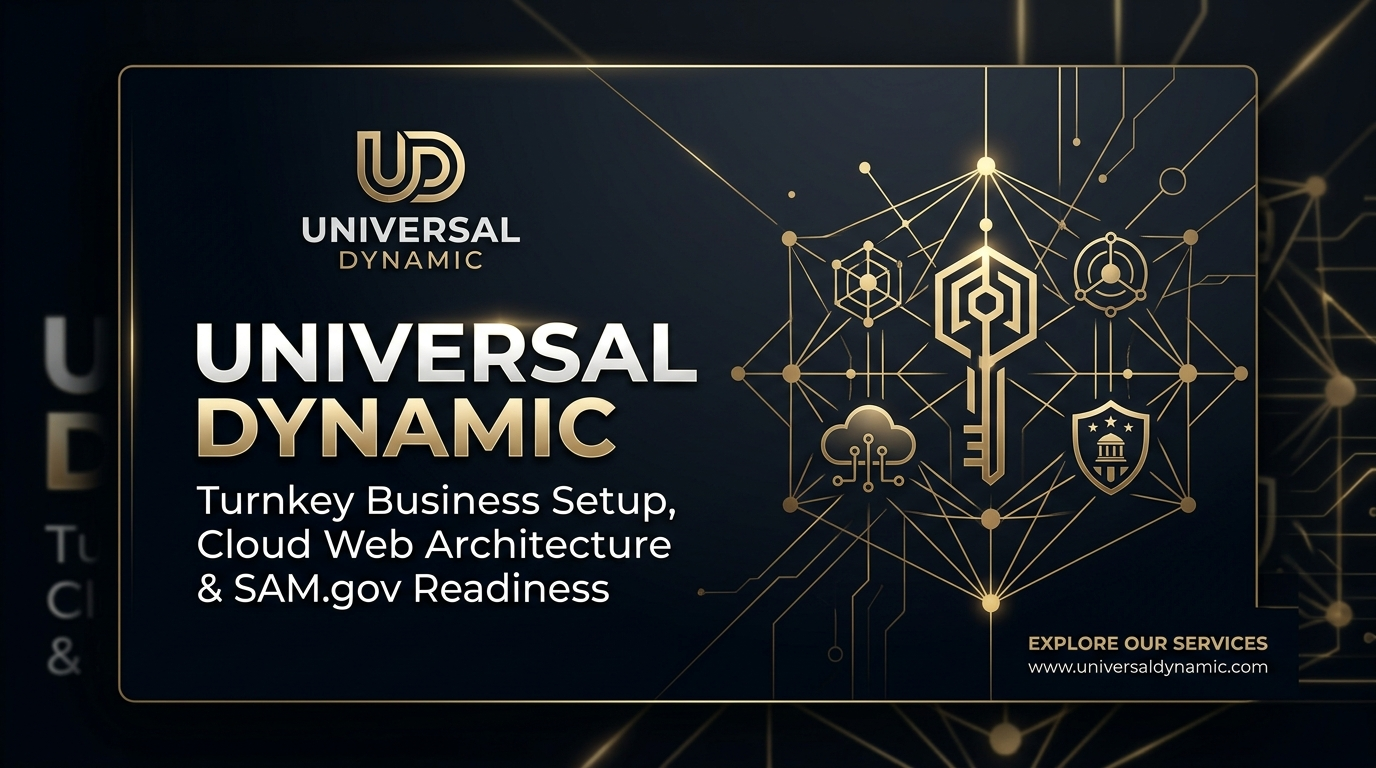
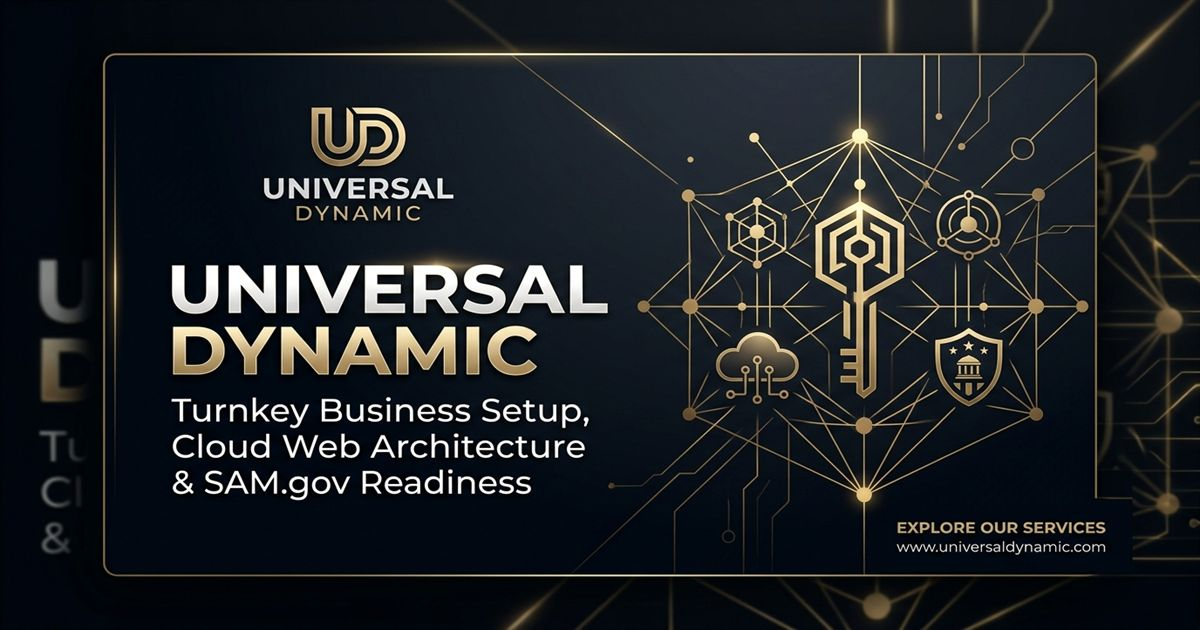
feat(step3): configure cleanUrls static routing, add 404 page, build-time sitemap, internal links, and 1200x630 og-image

diff --git a/src/pages/NotFoundPage.tsx b/src/pages/NotFoundPage.tsx
@@ -1,0 +1,62 @@
+import React from 'react';
+import { Head } from 'vite-react-ssg';
+import { Link } from 'react-router-dom';
+import { Hexagon, Home, Mail } from 'lucide-react';
+import { routeMeta } from '../seo';
+
+export const NotFoundPage: React.FC = () => {
+  const meta = routeMeta['/404'] || {
+    title: '404 - Page Not Found | Universal Dynamic Consulting Services LLC',
+    description: 'The requested page could not be found.',
+    canonical: 'https://universal-dynamic.com/404',
+    robots: 'noindex, nofollow',
+  };
+
+  return (
+    <main className="min-h-screen bg-charcoal-950 text-cream flex items-center justify-center pt-24 pb-16 px-6">
+      <Head>
+        <title>{meta.title}</title>
+        <meta name="description" content={meta.description} />
+        <meta name="robots" content="noindex, nofollow" />
+        <link rel="canonical" href={meta.canonical} />
+      </Head>
+
+      <div className="max-w-xl mx-auto text-center relative z-10">
+        <div className="relative inline-flex items-center justify-center mb-8">
+          <Hexagon className="w-24 h-24 text-gold/30" strokeWidth={1} />
+          <span className="absolute font-display font-bold text-3xl text-gold tracking-wider">404</span>
+        </div>
+
+        <span className="inline-block py-1.5 px-6 border border-gold/30 bg-navy/30 backdrop-blur-sm text-gold text-[10px] font-bold tracking-[0.3em] uppercase mb-6">
+          Error 404 // Route Undefined
+        </span>
+
+        <h1 className="font-display font-medium text-4xl sm:text-5xl text-white mb-6 leading-tight">
+          Page Not Found
+        </h1>
+
+        <p className="text-cream/70 text-base sm:text-lg font-light leading-relaxed mb-10 max-w-md mx-auto">
+          The resource you are looking for has either moved, been retired, or does not exist on this server.
+        </p>
+
+        <div className="flex flex-col sm:flex-row items-center justify-center gap-4">
+          <Link
+            to="/"
+            className="w-full sm:w-auto inline-flex items-center justify-center gap-3 px-8 py-3.5 bg-navy hover:bg-navy/80 text-cream border border-gold/30 text-xs uppercase tracking-widest font-sans font-bold transition-all hover:border-gold hover:shadow-[0_0_15px_rgba(197,165,114,0.15)] focus-visible:ring-1 focus-visible:ring-gold"
+          >
+            <Home className="w-4 h-4 text-gold" strokeWidth={1.5} />
+            Return Home
+          </Link>
+
+          <Link
+            to="/contact"
+            className="w-full sm:w-auto inline-flex items-center justify-center gap-3 px-8 py-3.5 bg-transparent border border-gold/20 text-cream hover:text-gold hover:border-gold/60 text-xs uppercase tracking-widest font-sans transition-colors focus-visible:ring-1 focus-visible:ring-gold"
+          >
+            <Mail className="w-4 h-4" strokeWidth={1.5} />
+            Contact Michael
+          </Link>
+        </div>
+      </div>
+    </main>
+  );
+};

diff --git a/src/components/ConciergeHandoff.tsx b/src/components/ConciergeHandoff.tsx
@@ -55,7 +55,13 @@ export const ConciergeHandoff: React.FC = () => {
 
         <div className="text-center bg-gold/5 border border-gold/20 p-6 md:p-8">
           <p className="text-cream/90 text-sm md:text-base font-light">
-            <strong className="text-gold font-semibold">{footerNotePrefix}</strong>{footerNoteBody}
+            <strong className="text-gold font-semibold">{footerNotePrefix}</strong>{footerNoteBody}{' '}
+            <span className="block sm:inline mt-2 sm:mt-0">
+              Serving local businesses in{' '}
+              <a href="/services/lake-jackson-tx" className="text-gold underline hover:text-gold/80 font-medium">
+                Lake Jackson (77566) &amp; Brazoria County
+              </a>.
+            </span>
           </p>
         </div>
       </div>

diff --git a/src/App.tsx b/src/App.tsx
@@ -10,6 +10,7 @@ import { PrivacyPolicyPage } from './pages/PrivacyPolicyPage';
 import { TermsOfServicePage } from './pages/TermsOfServicePage';
 import { LakeJacksonPage } from './pages/LakeJacksonPage';
 import { ThankYouPage } from './pages/ThankYouPage';
+import { NotFoundPage } from './pages/NotFoundPage';
 import { Footer } from './components/Footer';
 
 const Layout = () => (
@@ -56,6 +57,14 @@ export const routes: RouteRecord[] = [
       {
         path: 'thank-you',
         element: <ThankYouPage />,
+      },
+      {
+        path: '404',
+        element: <NotFoundPage />,
+      },
+      {
+        path: '*',
+        element: <NotFoundPage />,
       }
     ]
   }

diff --git a/src/seo.ts b/src/seo.ts
@@ -53,5 +53,12 @@ export const routeMeta: Record<string, RouteMeta> = {
     description: 'Thank you for reaching out to Universal Dynamic. We have received your inquiry and will review your project details.',
     canonical: 'https://universal-dynamic.com/thank-you',
     robots: 'noindex, nofollow',
+  },
+  '/404': {
+    title: '404 - Page Not Found | Universal Dynamic Consulting Services LLC',
+    description: 'The page you are looking for does not exist on this server.',
+    canonical: 'https://universal-dynamic.com/404',
+    robots: 'noindex, nofollow',
   }
 };
+

diff --git a/src/content/footer.ts b/src/content/footer.ts
@@ -47,6 +47,7 @@ export const footerContent: FooterContent = {
   legalLinks: [
     { name: "About", href: "/about" },
     { name: "Contact", href: "/contact" },
+    { name: "Lake Jackson, TX", href: "/services/lake-jackson-tx" },
     { name: "Privacy Policy", href: "/privacy-policy" },
     { name: "Terms of Service", href: "/terms-of-service" },
     { name: "Client Portal", href: "#", isExternal: true },
